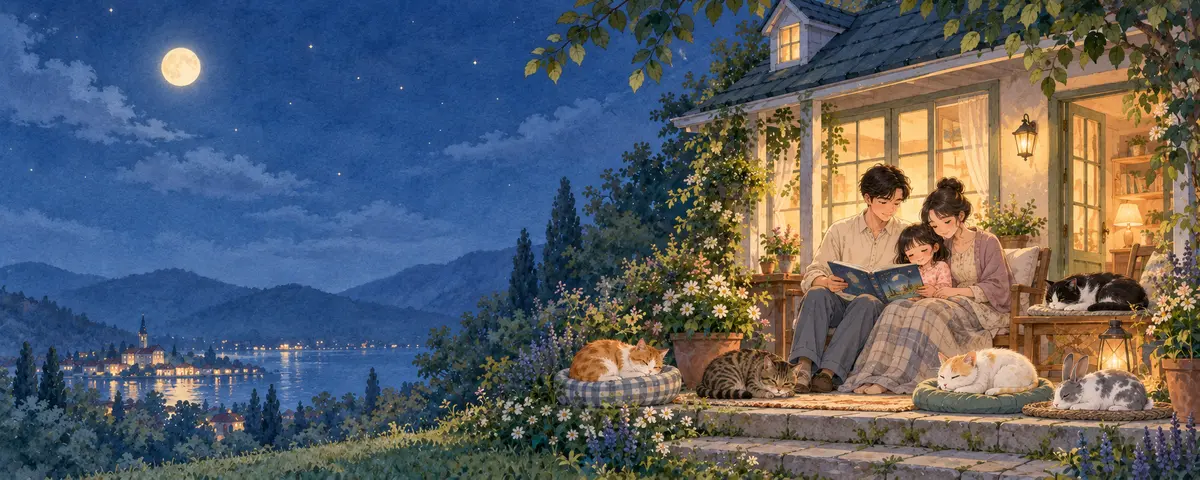
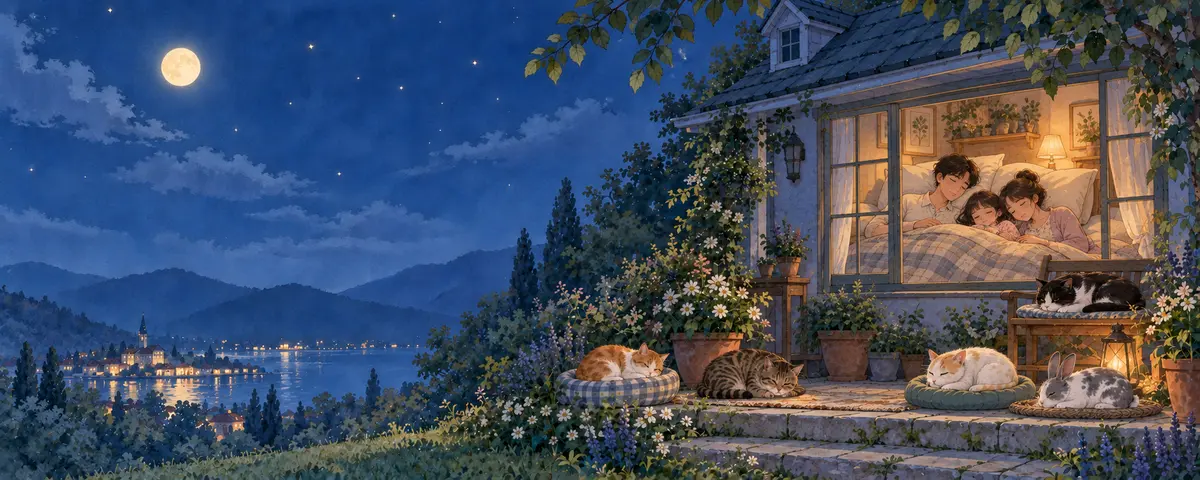
feat: add seven time-aware home covers

diff --git a/src/app/(app)/page.tsx b/src/app/(app)/page.tsx
@@ -95,10 +95,24 @@ const HOME_COVER_STYLES: Record<
   },
   morning: {
     src: "/art/home-morning.webp",
-    alt: "ยามเช้าที่พ่อแม่และลูกสาวดูแลบ้านพร้อมแมวสี่ตัวและกระต่าย",
+    alt: "ยามเช้าที่พ่อแม่และลูกสาวเริ่มต้นวันพร้อมแมวสี่ตัวและกระต่าย",
     text: "text-finance-text",
     muted: "text-finance-muted",
     action: "bg-white/85 text-finance-primary-strong",
+  },
+  "late-morning": {
+    src: "/art/home-late-morning.webp",
+    alt: "ช่วงสายที่พ่อแม่และลูกสาวช่วยกันทำงานบ้านพร้อมสัตว์เลี้ยง",
+    text: "text-[#4f4439]",
+    muted: "text-[#75685b]",
+    action: "bg-white/85 text-[#6f7653]",
+  },
+  midday: {
+    src: "/art/home-midday.webp",
+    alt: "ตอนเที่ยงที่พ่อแม่และลูกสาวเตรียมอาหารพร้อมสัตว์เลี้ยง",
+    text: "text-[#514238]",
+    muted: "text-[#78675c]",
+    action: "bg-white/85 text-[#7c6c4f]",
   },
   afternoon: {
     src: "/art/home-afternoon.webp",
@@ -114,9 +128,16 @@ const HOME_COVER_STYLES: Record<
     muted: "text-[#72584f]",
     action: "bg-white/75 text-[#715348] backdrop-blur-sm",
   },
+  night: {
+    src: "/art/home-night.webp",
+    alt: "ตอนค่ำที่พ่อแม่อ่านนิทานให้ลูกสาวพร้อมแมวสี่ตัวและกระต่าย",
+    text: "text-white drop-shadow-[0_1px_3px_rgba(8,24,40,0.9)]",
+    muted: "text-white/85 drop-shadow-[0_1px_2px_rgba(8,24,40,0.9)]",
+    action: "bg-white/80 text-[#4e6873] backdrop-blur-sm",
+  },
   "late-night": {
     src: "/art/home-late-night.webp",
-    alt: "ยามดึกที่พ่อแม่อ่านนิทานให้ลูกสาวพร้อมแมวสี่ตัวและกระต่าย",
+    alt: "ยามดึกที่พ่อแม่ ลูกสาว แมวสี่ตัว และกระต่ายนอนหลับพักผ่อน",
     text: "text-white drop-shadow-[0_1px_3px_rgba(8,24,40,0.9)]",
     muted: "text-white/85 drop-shadow-[0_1px_2px_rgba(8,24,40,0.9)]",
     action: "bg-white/80 text-[#4e6873] backdrop-blur-sm",
@@ -214,7 +235,7 @@ export default async function HomePage() {
           sizes="(max-width: 640px) 100vw, 576px"
           className="object-cover object-center"
         />
-        {coverMode === "late-night" ? (
+        {coverMode === "night" || coverMode === "late-night" ? (
           <div
             aria-hidden="true"
             className="absolute inset-0 bg-gradient-to-r from-[#081c30]/65 via-[#081c30]/25 to-transparent"

diff --git a/src/features/today/domain.ts b/src/features/today/domain.ts
@@ -1,7 +1,14 @@
 const BANGKOK_TIME_ZONE = "Asia/Bangkok";
 
 export type HomeCoverMode =
-  "birthday" | "morning" | "afternoon" | "evening" | "late-night";
+  | "birthday"
+  | "morning"
+  | "late-morning"
+  | "midday"
+  | "afternoon"
+  | "evening"
+  | "night"
+  | "late-night";
 
 export function bangkokHour(now = new Date()) {
   const hour = new Intl.DateTimeFormat("en-US", {
@@ -13,11 +20,33 @@ export function bangkokHour(now = new Date()) {
 }
 
 export function greetingForBangkok(now = new Date()) {
+  switch (homeTimeCoverMode(now)) {
+    case "morning":
+      return "สวัสดียามเช้า";
+    case "late-morning":
+      return "สวัสดีตอนสาย";
+    case "midday":
+      return "สวัสดีตอนเที่ยง";
+    case "afternoon":
+      return "สวัสดีตอนบ่าย";
+    case "evening":
+      return "สวัสดีตอนเย็น";
+    case "night":
+      return "สวัสดีตอนค่ำ";
+    case "late-night":
+      return "สวัสดีตอนดึก";
+  }
+}
+
+function homeTimeCoverMode(now: Date): Exclude<HomeCoverMode, "birthday"> {
   const hour = bangkokHour(now);
-  if (hour >= 5 && hour < 12) return "สวัสดีตอนเช้า";
-  if (hour >= 12 && hour < 17) return "สวัสดีตอนบ่าย";
-  if (hour >= 17 && hour < 21) return "สวัสดีตอนเย็น";
-  return "สวัสดีตอนดึก";
+  if (hour >= 5 && hour < 8) return "morning";
+  if (hour >= 8 && hour < 11) return "late-morning";
+  if (hour >= 11 && hour < 14) return "midday";
+  if (hour >= 14 && hour < 17) return "afternoon";
+  if (hour >= 17 && hour < 20) return "evening";
+  if (hour >= 20 && hour < 23) return "night";
+  return "late-night";
 }
 
 function bangkokMonthDay(now: Date) {
@@ -37,9 +66,5 @@ export function homeCoverMode(
 ): HomeCoverMode {
   if (birthday?.slice(5) === bangkokMonthDay(now)) return "birthday";
 
-  const hour = bangkokHour(now);
-  if (hour >= 5 && hour < 12) return "morning";
-  if (hour >= 12 && hour < 17) return "afternoon";
-  if (hour >= 17 && hour < 21) return "evening";
-  return "late-night";
+  return homeTimeCoverMode(now);
 }

diff --git a/src/features/today/domain.test.ts b/src/features/today/domain.test.ts
@@ -4,10 +4,13 @@ import { greetingForBangkok, homeCoverMode } from "./domain";
 
 describe("Today greeting in Bangkok time", () => {
   it.each([
-    ["2026-09-15T23:00:00Z", "สวัสดีตอนเช้า"],
-    ["2026-09-16T06:00:00Z", "สวัสดีตอนบ่าย"],
+    ["2026-09-15T23:00:00Z", "สวัสดียามเช้า"],
+    ["2026-09-16T02:00:00Z", "สวัสดีตอนสาย"],
+    ["2026-09-16T05:00:00Z", "สวัสดีตอนเที่ยง"],
+    ["2026-09-16T08:00:00Z", "สวัสดีตอนบ่าย"],
     ["2026-09-16T11:00:00Z", "สวัสดีตอนเย็น"],
-    ["2026-09-16T15:00:00Z", "สวัสดีตอนดึก"],
+    ["2026-09-16T14:00:00Z", "สวัสดีตอนค่ำ"],
+    ["2026-09-16T19:00:00Z", "สวัสดีตอนดึก"],
   ])("greets at %s", (iso, expected) => {
     expect(greetingForBangkok(new Date(iso))).toBe(expected);
   });
@@ -15,11 +18,21 @@ describe("Today greeting in Bangkok time", () => {
 
 describe("Today cover in Bangkok time", () => {
   it.each([
-    ["2026-09-15T23:00:00Z", "morning"],
-    ["2026-09-16T06:00:00Z", "afternoon"],
-    ["2026-09-16T11:00:00Z", "evening"],
-    ["2026-09-16T15:00:00Z", "late-night"],
-  ] as const)("uses the %s cover", (iso, expected) => {
+    ["2026-09-15T21:59:00Z", "late-night"],
+    ["2026-09-15T22:00:00Z", "morning"],
+    ["2026-09-16T00:59:00Z", "morning"],
+    ["2026-09-16T01:00:00Z", "late-morning"],
+    ["2026-09-16T03:59:00Z", "late-morning"],
+    ["2026-09-16T04:00:00Z", "midday"],
+    ["2026-09-16T06:59:00Z", "midday"],
+    ["2026-09-16T07:00:00Z", "afternoon"],
+    ["2026-09-16T09:59:00Z", "afternoon"],
+    ["2026-09-16T10:00:00Z", "evening"],
+    ["2026-09-16T12:59:00Z", "evening"],
+    ["2026-09-16T13:00:00Z", "night"],
+    ["2026-09-16T15:59:00Z", "night"],
+    ["2026-09-16T16:00:00Z", "late-night"],
+  ] as const)("uses the %s cover at %s", (iso, expected) => {
     expect(homeCoverMode(null, new Date(iso))).toBe(expected);
   });
 

diff --git a/src/app/(app)/today-page.test.ts b/src/app/(app)/today-page.test.ts
@@ -37,8 +37,11 @@ describe("Today dashboard composition", () => {
   it("uses real artwork for every time period without CSS image filters", () => {
     for (const asset of [
       "home-morning.webp",
+      "home-late-morning.webp",
+      "home-midday.webp",
       "home-afternoon.webp",
       "home-evening.webp",
+      "home-night.webp",
       "home-late-night.webp",
       "home-birthday.webp",
     ]) {
@@ -51,7 +54,9 @@ describe("Today dashboard composition", () => {
     expect(source).toContain(
       'text: "text-white drop-shadow-[0_1px_3px_rgba(8,24,40,0.9)]"',
     );
-    expect(source).toContain('coverMode === "late-night"');
+    expect(source).toContain(
+      'coverMode === "night" || coverMode === "late-night"',
+    );
     expect(source).toContain("from-[#081c30]/65");
   });
 });
